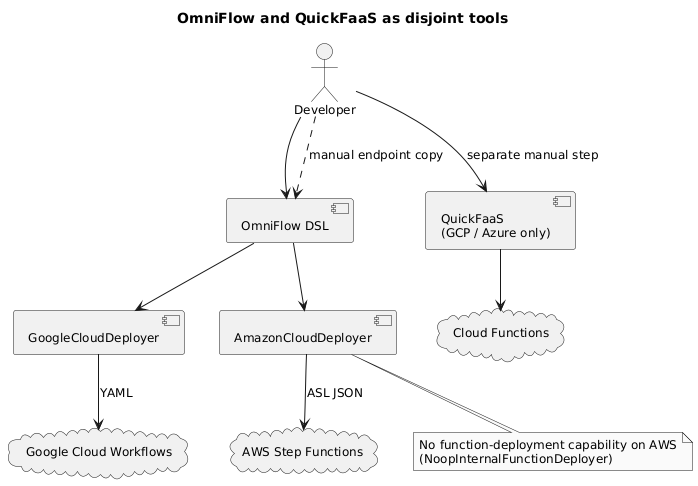
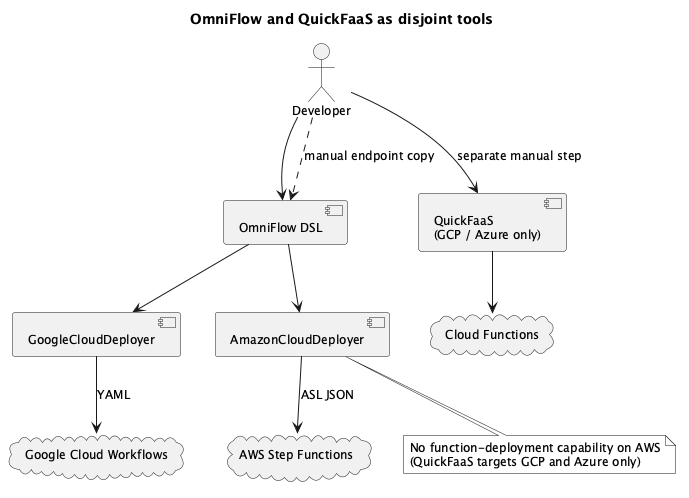
Bring the diagrams in line with the code
Seven diagrams no longer matched the code:
- architecture-after: its legend called the resolvers, deployers and
  registries pre-existing; they are now marked new or extended.
- architecture-before: it cited NoopInternalFunctionDeployer, which
  only exists since this work.
- call-step-model: bodyRaw was missing.
- omniflow-integration-classes: it had stale members, such as
  checkLambdaFunctionUrl, and lacked the inspectors, region listers and
  catalog.
- aws-deploy-sequence and the two Level 1 cascade diagrams: they left
  out the single registry read, Level 1 validation, discovery across
  regions, and the rediscovery and failure branches. The GCP one also
  lacked the first-generation Cloud Functions bypass.

The PNGs are regenerated with PlantUML 1.2026.8, and chapter 4 no longer
singles out AwsLambdaDeployer as added in this work or describes the AWS
sequence as three alt fragments.

diff --git a/dissertation/Chapters/chapter5.tex b/dissertation/Chapters/chapter5.tex
@@ -26,7 +26,7 @@ through to its actual invocation once the workflow has been deployed.
 
 This work introduces a \textit{Function Registry} to decouple workflow definitions from concrete function endpoints, reducing manual coordination between function deployments and workflow orchestration.
 
-Figure~\ref{fig:omniflow-integration-classes} details the classes that realise the unification inside OmniFlow. Function deployment is abstracted behind the \texttt{InternalFunctionDeployer} interface, following the strategy pattern, with three implementations: \texttt{Noop\allowbreak Internal\allowbreak Function\allowbreak Deployer} (the safe default, which raises if invoked), \texttt{QuickFaasDeployer} (GCP), and \texttt{AwsLambdaDeployer} (AWS, added in this work). Each provider deployer (\texttt{Google\allowbreak Cloud\allowbreak Deployer}, \texttt{Amazon\allowbreak Cloud\allowbreak Deployer}) owns a provider-specific resolver, and both resolvers share two collaborators: the \texttt{Function\allowbreak Registry\allowbreak Store} and the deployer strategy. The store persists each binding as a \texttt{Function\allowbreak Invocation\allowbreak Metadata} record, a \texttt{serviceName} together with a \texttt{url} that is an HTTPS endpoint on GCP and a Lambda ARN on AWS. The \texttt{Function\allowbreak Registry\allowbreak Bootstrapper} populates a missing registry by discovery. This structure keeps the two providers symmetric and makes the deployer a clean extension point: supporting a further platform means adding one resolver and one \texttt{InternalFunctionDeployer}, without touching the existing ones.
+Figure~\ref{fig:omniflow-integration-classes} details the classes that realise the unification inside OmniFlow. Function deployment is abstracted behind the \texttt{InternalFunctionDeployer} interface, following the strategy pattern, with three implementations: \texttt{Noop\allowbreak Internal\allowbreak Function\allowbreak Deployer} (the safe default, which raises if invoked), \texttt{QuickFaasDeployer} (GCP), and \texttt{AwsLambdaDeployer} (AWS). Each provider deployer (\texttt{Google\allowbreak Cloud\allowbreak Deployer}, \texttt{Amazon\allowbreak Cloud\allowbreak Deployer}) owns a provider-specific resolver, and both resolvers share two collaborators: the \texttt{Function\allowbreak Registry\allowbreak Store} and the deployer strategy. The store persists each binding as a \texttt{Function\allowbreak Invocation\allowbreak Metadata} record, a \texttt{serviceName} together with a \texttt{url} that is an HTTPS endpoint on GCP and a Lambda ARN on AWS. The \texttt{Function\allowbreak Registry\allowbreak Bootstrapper} populates a missing registry by discovery. This structure keeps the two providers symmetric and makes the deployer a clean extension point: supporting a further platform means adding one resolver and one \texttt{InternalFunctionDeployer}, without touching the existing ones.
 \begin{figure}[htbp]
   \centering
   \includegraphics[width=\textwidth]{images/implementation/omniflow-integration-classes.png}
@@ -308,7 +308,7 @@ deployment time through a resolution cascade (registry, provider discovery, Quic
 deployment as a last resort). This improves maintainability, supports repeatable deployments, and provides explicit, fail-fast diagnostics when registry bindings are missing or inconsistent.
 
 \section{AWS Lambda Support in QuickFaaS}
-Figure~\ref{fig:aws-deploy-sequence} traces the end-to-end deployment for the most demanding path, where an internal function exists in neither the registry nor AWS. The three \texttt{alt} fragments correspond directly to the three levels of the resolution cascade described in Section~\ref{subsec:endpoint-resolution}. Once Level~3 is reached, \texttt{AwsLambdaDeployer} performs the AWS-specific work that has no GCP equivalent: it resolves or creates the Lambda execution IAM role, patches the resolved role ARN into a temporary copy of the descriptor, determines the effective region from the S3 bucket's location, and invokes QuickFaaS as a subprocess — retrying up to three times with a 20~s back-off to absorb IAM eventual consistency. After the subprocess returns, it polls \texttt{GetFunction} until the function reaches the \texttt{Active} state (bounded by a 180~s timeout), retrieves the ARN, and grants the Step Functions service permission to invoke the function. The ARN is stored in the registry and, once all calls are resolved, the workflow is rendered with a \texttt{lambda:invoke} task resource and submitted via \texttt{CreateStateMachine}. This diagram makes explicit the operational steps that the conceptual cascade abstracts away. The rationale for invoking QuickFaaS as a subprocess, rather than integrating the two tools as separate communicating services, is discussed in Section~\ref{sec:design-rationale}.
+Figure~\ref{fig:aws-deploy-sequence} traces the end-to-end deployment for the most demanding path, where an internal function exists in neither the registry nor AWS. The \texttt{alt} fragment has one branch for each of the three levels of the resolution cascade described in Section~\ref{subsec:endpoint-resolution}, and a fourth for the calls that fail fast. Once Level~3 is reached, \texttt{AwsLambdaDeployer} performs the AWS-specific work that has no GCP equivalent: it resolves or creates the Lambda execution IAM role, patches the resolved role ARN into a temporary copy of the descriptor, determines the effective region from the S3 bucket's location, and invokes QuickFaaS as a subprocess — retrying up to three times with a 20~s back-off to absorb IAM eventual consistency. After the subprocess returns, it polls \texttt{GetFunction} until the function reaches the \texttt{Active} state (bounded by a 180~s timeout), retrieves the ARN, and grants the Step Functions service permission to invoke the function. The ARN is stored in the registry and, once all calls are resolved, the workflow is rendered with a \texttt{lambda:invoke} task resource and submitted via \texttt{CreateStateMachine}. This diagram makes explicit the operational steps that the conceptual cascade abstracts away. The rationale for invoking QuickFaaS as a subprocess, rather than integrating the two tools as separate communicating services, is discussed in Section~\ref{sec:design-rationale}.
 
 \begin{figure}[htbp]
   \centering

diff --git a/dissertation/CHANGELOG.md b/dissertation/CHANGELOG.md
@@ -1,8 +1,35 @@
 # Alterações aos capítulos da dissertação
 
-Só alterações ainda não enviadas (push). Base: `c748a33` (último commit em
+Só alterações ainda não enviadas (push). Base: `5f0d1c4` (último commit em
 `origin/claude/progress-report-compliance-e4damf`). Depois de um push, o registo recomeça vazio.
 
 (`changelog.txt`, nesta pasta, é o histórico do template `iselthesis` e não tem nada a ver com
 este ficheiro.)
 
+## 2026-09-21
+
+### Figuras alinhadas com o código (`../diagrams/*.puml`, PNG em `images/`)
+
+- Fig. 3.1 (`architecture-before`, cap. 3): a nota deixa de citar o `NoopInternalFunctionDeployer`,
+  que só existe a partir deste trabalho.
+- Fig. 3.2 (`architecture-after`, cap. 3): resolvers, deployers e registos marcados como novos; DSL,
+  `GoogleCloudDeployer`, `AmazonCloudDeployer` e jar do QuickFaaS como estendidos. A legenda já não
+  diz que os componentes sem marca são "unmodified, pre-existing".
+- Figura do modelo do `call` (`call-step-model`, cap. 3): acrescentado `bodyRaw`; o invariante XOR
+  exige `host` definido em vez de `host != ε`.
+- Diagrama de classes (`omniflow-integration-classes`, cap. 4): atributos e métodos atualizados
+  (`preferredRegion`, `discoverFunctionForRef`, `readAll`/`tryResolveEntryIn`, `bootstrapIfMissing(scope)`),
+  acrescentados os inspectors, os listers de regiões e o `CloudFunctionsCatalog`; sem o estereótipo
+  `<<new in this work>>`; disposição da esquerda para a direita.
+- Sequência AWS (`aws-deploy-sequence`, cap. 4): bootstrap do registo, leitura única para o snapshot,
+  validação no Nível 1, descoberta em todas as regiões no Nível 2 e falha por ambiguidade ou regiões
+  inacessíveis.
+- Apêndice A, Nível 1 GCP e AWS: pesquisa sobre o snapshot, redescoberta com `remove(key)` seguido de
+  `put(functionRef, …)`, ramo de erro por ambiguidade; no GCP, o ramo das funções de 1.ª geração.
+
+### Capítulo 4, Implementation (`Chapters/chapter5.tex`)
+
+- Secção Function Registry: o `AwsLambdaDeployer` deixa de ser o único descrito como "added in this
+  work", já que toda a camada de integração é deste trabalho.
+- Secção AWS Lambda Support: a descrição da Fig. `aws-deploy-sequence` passa a referir um `alt` com um
+  ramo por nível e um quarto para as falhas, em vez de três fragmentos `alt`.
